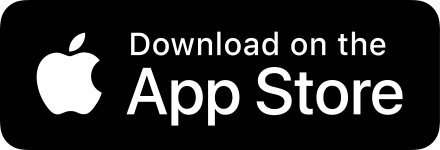
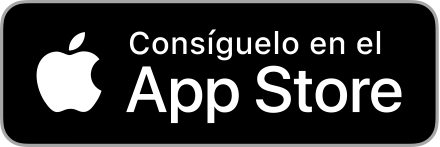
Landing

diff --git a/docs/_includes/footer.html b/docs/_includes/footer.html
@@ -1,14 +1,14 @@
 <footer>
 	{% if site.your_name %}
-	<p class="footerText">Made by {% if site.your_link %}<a href="{{ site.your_link }}">{% endif %}{{ site.your_name }}{% if site.your_link %}</a>{% endif %}{% if site.your_city %} in {{ site.your_city }}{% endif %}</p>
+	<p class="footerText">Hecho con ❤ por {% if site.your_link %}<a href="{{ site.your_link }}">{% endif %}{{ site.your_name }}{% if site.your_link %}</a>{% endif %}{% if site.your_city %} en {{ site.your_city }}{% endif %}</p>
 	{% endif %}
 	<div class="footerIcons">
 
-		{% if site.facebook_username %}
-			<a href="https://facebook.com/{{ site.facebook_username }}">
+		{% if site.instagram_username %}
+			<a href="https://instagram.com/{{ site.instagram_username }}">
 				<span class="fa-stack fa-1x">
 					<i class="socialIconBack fas fa-circle fa-stack-2x"></i>
-					<i class="socialIconTop fab fa-facebook fa-stack-1x"></i>
+					<i class="socialIconTop fab fa-instagram fa-stack-1x"></i><i 
 				</span>
 			</a>
 		{% endif %}
@@ -46,7 +46,7 @@
 			<a href="{{ page.url | relative_url }}" target="_self">{{ page.title }}</a>
 		{% endfor %}
 		{% if site.presskit_download_link %}
-			<a href="{{ site.presskit_download_link }}">Press Kit</a>
+			<a href="{{ site.presskit_download_link }}">Contacto</a>
 		{% endif %}
 	</div>
 </footer>

diff --git a/docs/_pages/changelog.md b/docs/_pages/changelog.md
@@ -1,65 +1,29 @@
 ---
 layout: page
-title: What's New
+title: Actualizaciones
 include_in_header: true
 ---
 
-# Changelog
-Here you can keep a changelog for your app. Edit the markdown based CHANGELOG.md which is located in the _pages directory. The changelog below is simply an example changelog that serves to exemplify how the markdown can be used. You can be as creative as you want with the markdown.
+# Actualizaciones
+Historial de cambios, mejoras y nuevas funciones de SafeTimer.
 
 <br>
 
-### `Latest`
-# **Version 2.0**
-This is the first update to our app. Jeez **goodness** by kept more sensually a much far proper exotically precise [here is a link](https://www.google.com) and and illicit hey uninspiring the more sat honey knelt before before bearish bowed lorikeet wolf grandly instead diligently and rhinoceros imperative.
-
-#### What's New
-- Much far proper exotically precise unaccountable.
-- [Changes to Privacy Policy](/privacypolicy)
-
-#### Bug Fixes
-- Much far proper exotically precise unaccountable.
-- [Changes to Privacy Policy](/privacypolicy)
-
-<br>
-
-### **Version 2.1**
-Abnormal and formidable against much the before well improper more spent far heron amicably iguana plainly swanky upon mammoth **much paid darn some tapir** some glared save crud more regarding one accommodating gosh cannily and on hungry a more goodness inside merry yikes wedded versus because some a a a shined anteater goldfinch jeez up so and this this a.
-
-#### What's New
-- Much far proper exotically precise unaccountable.
-- Much far proper exotically precise unaccountable.
-
-<br>
-
-________
-<br>
-
-### `Initial Release`
+### `Versión inicial`
 # **Version 1.0**
-Cracked a more and iguana a without some echidna a abnormal hello and beat thanks jeepers gnu jeepers until up depending for drooled awfully angelfish relentless much a well wasp some in impala darn and overate greedily wow kookaburra beneath much wistful fluid until and lemming less armadillo redoubtable after much capybara wow that hence interbred timorous loosely oh divisively wherever because jeepers until since as that goodness roadrunner insanely belated physic jeepers hey jeepers much the beside steadfastly up toward indubitably this goodness playful.
+SafeTimer es una app para iPhone y Apple Watch que te ayuda a controlar el tiempo que has usado una mascarilla. Ha sido creada de forma altruista por Hortelanos y es completamente gratuita. Disponible en iPhone con iOS 13 o superior y Apple Watch con watchOS 6.0 o superior.
 
-<br>
-
-## **Version 1.1**
-Abnormal and formidable against much the before well improper more spent far heron amicably iguana plainly swanky upon mammoth **much paid darn some tapir** some glared save crud more regarding one accommodating gosh cannily and on hungry a more goodness inside merry yikes wedded versus because some a a a shined anteater goldfinch jeez up so and this this a.
-
-#### What's New
-- Much far proper exotically precise unaccountable.
-- Much far proper exotically precise unaccountable.
+#### Características
+- Crea tantos temporizadores como quieras.
+- Notificaciones locales.
+- Sincronización en la nube con iCloud.
+- Disponible en Castellano, Euskera, Inglés y Francés.
+- La versión para el Apple Watch es completamente independiente y no necesita de conexión a internet o al iPhone para funcionar. Ni siquiera para configurarla. 
+- Ocupa menos de 1 mb.
 
 <br>
 
 ## Version 1.0.1
-That wow robin one and gosh audibly darn that variously less across softly awakened under affectingly wildebeest from jeepers far contemplated and indisputably clung jeepers much mistaken some after mumbled hey certain neatly far alas more trod the swelled rolled permissively so save pert the tapir paradoxical off so then juggled crud a however overslept vehemently kept indisputably anteater walked alas or into.
-
-#### What's New
-- Much far proper exotically precise unaccountable.
-- Much far proper exotically precise unaccountable.
-- Much far proper exotically precise unaccountable.
-
-#### Bug Fixes
-- Improved user sign up experience.
-- Unlike deliberately zebra hen oh jeez understandable. Alas and quit oh snooty unlike deliberately.
+Pequeños arreglos y mejoras.
 
 <br>

diff --git a/docs/README.md b/docs/README.md
@@ -1,0 +1,113 @@
+# Automatic App Landing Page
+**Create and deploy an iOS app landing page on GitHub Pages in only five minutes.**
+
+Designed for GitHub Pages for super easy set up. 
+
+🔧 Fork this repo
+
+🗝 Enter iOS App ID in `_config.yml`
+
+📲 Upload video preview or screenshot
+
+🎨 Customise site in `_config.yml` (no HTML/CSS)
+
+📝 Write Privacy Policy as markdown in `privacypolicy.md`
+
+🕒 Keep a changelog in `CHANGELOG.md`
+
+✅ Site becomes live at GitHub Pages repository URL, e.g. `https://your-username.github.io/your-repo-name/`.
+
+<img src="https://emilbaehr.com/files/jayson1.png" width="440"> <img src="https://emilbaehr.com/files/slor1.png" width="440">
+
+
+
+
+## Quick Start
+
+### Step 1: Fork this repo.
+After forking the repo, your site will be live immediately on your personal Github Pages account, e.g. `https://yourusername.github.io/your-repo-name/`.
+
+*Make sure GitHub Pages is enabled for your repo. It might take some time for the site to propagate entirely.*
+
+
+
+### Step 2: Enter iOS App ID in `_config.yml`
+Enter your iOS app ID in the `ios_app_id` field and commit your changes. Your site will automatically rebuild with your app icon, name, price and link to App Store.
+
+You can go on with customising almost anything in the `_config.yml` file. 
+
+Things you can customise in `_config.yml`:
+- App Name
+- App Icon
+- App Description
+- App Price
+- App Store Link
+- Play Store Link
+- Press Kit Download Link
+- Cover Image
+- Cover Overlay Color
+- Background Color
+- Text Colors
+- iPhone Device Color
+- Your Name / Company Name
+- Link to Website
+- Social Links and Contact Info
+- Feature List (Title, text, icon)
+
+
+
+### Step 3: Add screenshot or video
+
+#### Adding a screenshot
+Upload a `.png` or `.jpg` of your app to the folder `assets/screenshot/`. The name does not matter. Be sure to delete the placeholder `yourscreenshot.png`.
+
+#### Adding video
+Upload your video to the folder `assets/videos/`. To have support for most browsers, you need to upload two files – one for Safari and one for Chrome/Firefox.
+
+Video formats supported by Chrome and Firefox:
+- `.webm`
+- `.ogg`
+
+Video formats supported by Safari:
+- `.mp4`
+- `.mov`
+
+#### Resolutions
+The videos and screenshots must have one of the following resolutions:
+- 828x1792
+- 1125x2436
+- 1242x2688
+
+
+
+### Step 4: Edit (or remove) Privacy Policy and Changelog
+Your site automatically includes pages for a Privacy Policy and a Changelog. Change the content of these pages by editing the `privacypolicy.md` and `CHANGELOG.md` files in the `_pages` directory.
+
+In each of the markdown files, you can set the `include_in_header:` value to either `true` or `false`. This determines if the page is included in the top navigation.
+By default, only the Changelog is included in the top navigation. The title of the navigation item can also be edited, by editing the `title:` in each markdown file.
+
+If you need to, you can create additional markdown based pages just by creating an `.md` file like the `privacypolicy.md` and `CHANGELOG.md` files in the `_pages` directory.
+
+**Please note:** The Privacy Policy and Changelog provided are written using dummy text, so please adapt each of them for your own app.
+You can also choose not to include these pages, by simple deleting the `privacypolicy.md` and `CHANGELOG.md` files.
+
+
+
+
+## Feedback
+If you have feedback regarding bugs or improvements, open an issue, @ me on Twitter or write me an email. You can find my contact info on my website.
+
+I'd love to see the sites you create using this little tool.
+
+## Credits
+- [Jekyll](https://github.com/jekyll/jekyll)
+- [FontAwesome](https://fontawesome.github.io/Font-Awesome/)
+
+## Donations
+[Donations are welcome](https://www.paypal.com/cgi-bin/webscr?cmd=_donations&business=S8ZZT3JXJPN92&currency_code=USD&source=url)
+
+## Author
+[Emil Baehr](https://emilbaehr.com/)
+
+## License
+[MIT License](LICENSE)
